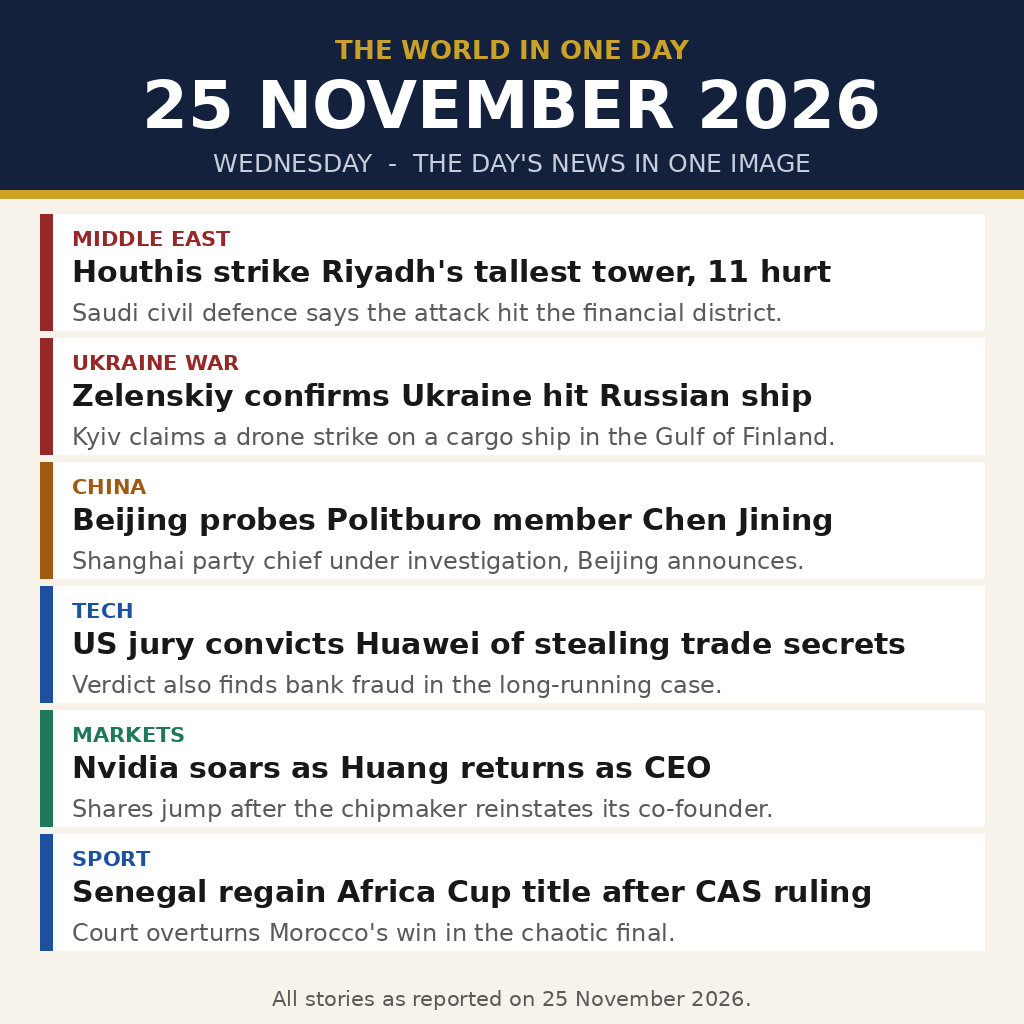
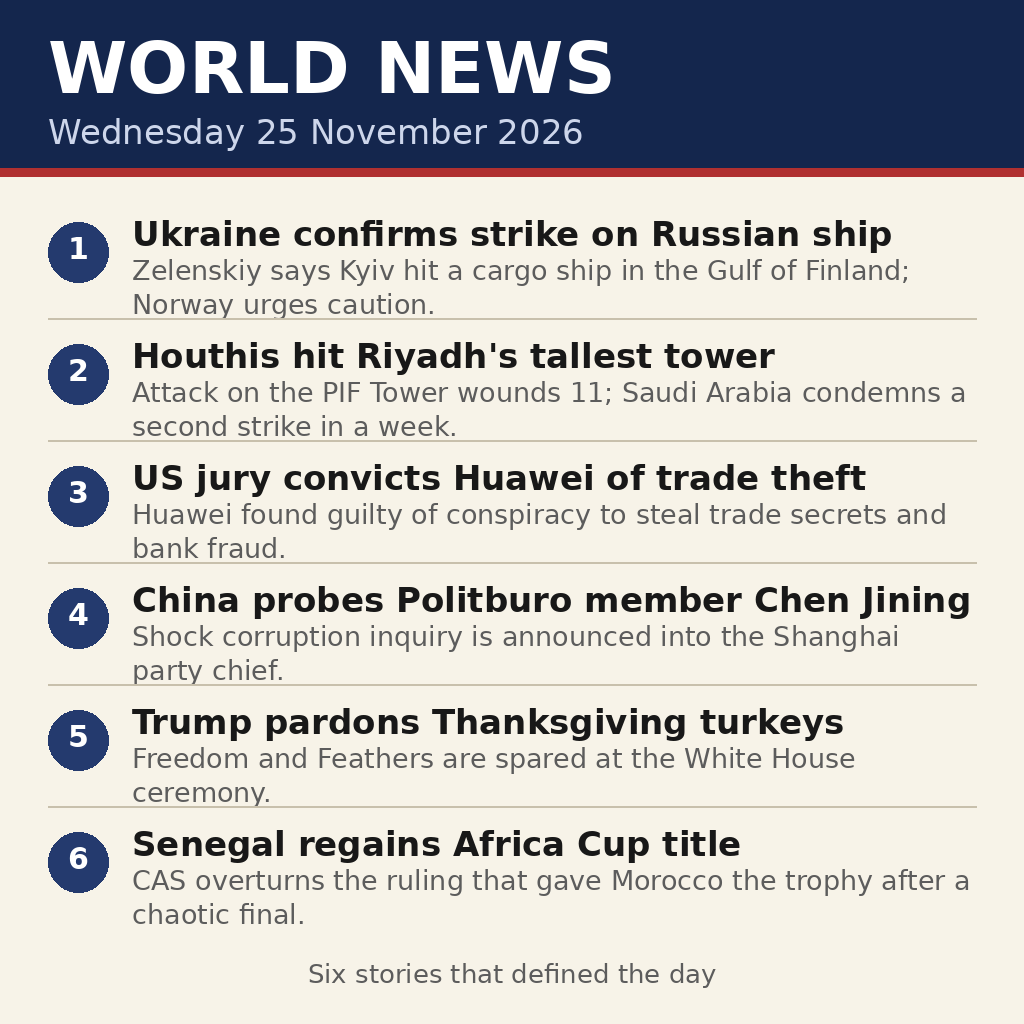
Rewrite main.py and README.md

Changed region(s): [[0.0, 0.0312, 1.0, 1.0], [0.6875, 0.0625, 0.875, 0.125]]

diff --git a/draw_poster.py b/draw_poster.py
@@ -1,108 +1,158 @@
-"""Draw the 25 November 2026 world-news poster (1024x1024 PNG).
+#!/usr/bin/env python3
+"""Draw the news poster for 25 November 2026.
 
-Stories are the day's top reported events, each with a short headline
-and a one-line label. All text is drawn with PIL from strings below.
-Sources checked 25 Nov 2026: Reuters world news summary, SCMP, The Hindu
-morning digest, Gulf News, Manila Times.
+Build tool only: it runs here to produce entry.png. The graded entry
+program is main.py, which copies entry.png to /output/entry.png.
 """
+
+import textwrap
+from pathlib import Path
+
 from PIL import Image, ImageDraw, ImageFont
 
-FONT_DIR = "/usr/share/fonts/truetype/dejavu/"
-BOLD = FONT_DIR + "DejaVuSans-Bold.ttf"
-REG = FONT_DIR + "DejaVuSans.ttf"
+HERE = Path(__file__).resolve().parent
+OUT = HERE / "entry.png"
 
-W, H = 1024, 1024
-BG = (247, 243, 234)
-NAVY = (20, 33, 61)
-GOLD = (201, 162, 39)
+WIDTH = 1024
+HEIGHT = 1024
+CREAM = (247, 243, 232)
+NAVY = (20, 38, 77)
+NAVY_LIGHT = (36, 58, 110)
 INK = (24, 24, 24)
-MUTED = (90, 90, 90)
-WHITE = (255, 255, 255)
+GREY = (92, 92, 92)
+ACCENT = (176, 48, 48)
+RULE = (200, 192, 172)
+
+TITLE = "WORLD NEWS"
+DATE_LINE = "Wednesday 25 November 2026"
+FOOTER = "Six stories that defined the day"
 
 STORIES = [
-    ("MIDDLE EAST", (150, 40, 40),
-     "Houthis strike Riyadh's tallest tower, 11 hurt",
-     "Saudi civil defence says the attack hit the financial district."),
-    ("UKRAINE WAR", (150, 40, 40),
-     "Zelenskiy confirms Ukraine hit Russian ship",
-     "Kyiv claims a drone strike on a cargo ship in the Gulf of Finland."),
-    ("CHINA", (160, 90, 20),
-     "Beijing probes Politburo member Chen Jining",
-     "Shanghai party chief under investigation, Beijing announces."),
-    ("TECH", (30, 80, 160),
-     "US jury convicts Huawei of stealing trade secrets",
-     "Verdict also finds bank fraud in the long-running case."),
-    ("MARKETS", (31, 120, 90),
-     "Nvidia soars as Huang returns as CEO",
-     "Shares jump after the chipmaker reinstates its co-founder."),
-    ("SPORT", (30, 80, 160),
-     "Senegal regain Africa Cup title after CAS ruling",
-     "Court overturns Morocco's win in the chaotic final."),
+    (
+        "Ukraine confirms strike on Russian ship",
+        "Zelenskiy says Kyiv hit a cargo ship in the Gulf of Finland; Norway urges caution.",
+    ),
+    (
+        "Houthis hit Riyadh's tallest tower",
+        "Attack on the PIF Tower wounds 11; Saudi Arabia condemns a second strike in a week.",
+    ),
+    (
+        "US jury convicts Huawei of trade theft",
+        "Huawei found guilty of conspiracy to steal trade secrets and bank fraud.",
+    ),
+    (
+        "China probes Politburo member Chen Jining",
+        "Shock corruption inquiry is announced into the Shanghai party chief.",
+    ),
+    (
+        "Trump pardons Thanksgiving turkeys",
+        "Freedom and Feathers are spared at the White House ceremony.",
+    ),
+    (
+        "Senegal regains Africa Cup title",
+        "CAS overturns the ruling that gave Morocco the trophy after a chaotic final.",
+    ),
 ]
 
 
-def font(path, size):
-    return ImageFont.truetype(path, size)
+def load_font(bold, size):
+    candidates = [
+        "/usr/share/fonts/truetype/dejavu/DejaVuSans-Bold.ttf" if bold
+        else "/usr/share/fonts/truetype/dejavu/DejaVuSans.ttf",
+        "/usr/share/fonts/TTF/DejaVuSans-Bold.ttf" if bold
+        else "/usr/share/fonts/TTF/DejaVuSans.ttf",
+    ]
+    for path in candidates:
+        try:
+            return ImageFont.truetype(path, size)
+        except OSError:
+            continue
+    return ImageFont.load_default(size=size)
 
 
-def wrap(draw, text, fnt, max_w):
-    words, lines, cur = text.split(), [], ""
-    for w in words:
-        trial = (cur + " " + w).strip()
-        if draw.textlength(trial, font=fnt) <= max_w:
-            cur = trial
-        else:
-            if cur:
-                lines.append(cur)
-            cur = w
-    if cur:
-        lines.append(cur)
+def wrap(draw, text, font, max_width):
+    lines = []
+    for raw in text.split("\n"):
+        words = raw.split()
+        current = ""
+        for word in words:
+            trial = f"{current} {word}".strip()
+            if draw.textlength(trial, font=font) <= max_width:
+                current = trial
+            else:
+                if current:
+                    lines.append(current)
+                current = word
+        if current:
+            lines.append(current)
     return lines
 
 
-def main():
-    img = Image.new("RGB", (W, H), BG)
-    d = ImageDraw.Draw(img)
+def draw_poster():
+    image = Image.new("RGB", (WIDTH, HEIGHT), CREAM)
+    draw = ImageDraw.Draw(image)
 
-    # Masthead
-    d.rectangle([0, 0, W, 190], fill=NAVY)
-    d.rectangle([0, 190, W, 198], fill=GOLD)
-    f_small = font(BOLD, 26)
-    f_date = font(BOLD, 66)
-    f_sub = font(REG, 25)
-    d.text((512, 34), "THE WORLD IN ONE DAY", font=f_small,
-           fill=GOLD, anchor="ma")
-    d.text((512, 66), "25 NOVEMBER 2026", font=f_date,
-           fill=WHITE, anchor="ma")
-    d.text((512, 148), "WEDNESDAY  -  THE DAY'S NEWS IN ONE IMAGE",
-           font=f_sub, fill=(200, 205, 220), anchor="ma")
+    title_font = load_font(True, 72)
+    date_font = load_font(False, 34)
+    head_font = load_font(True, 34)
+    body_font = load_font(False, 27)
+    number_font = load_font(True, 30)
+    footer_font = load_font(False, 26)
 
-    # Story blocks
-    f_tag = font(BOLD, 21)
-    f_head = font(BOLD, 30)
-    f_label = font(REG, 24)
-    y = 214
-    block_h, gap = 116, 8
-    for tag, colour, head, label in STORIES:
-        d.rectangle([40, y, W - 40, y + block_h], fill=WHITE)
-        d.rectangle([40, y, 52, y + block_h], fill=colour)
-        d.text((72, y + 12), tag, font=f_tag, fill=colour)
-        lines = wrap(d, head, f_head, W - 140)
-        hy = y + 40
-        for ln in lines[:2]:
-            d.text((72, hy), ln, font=f_head, fill=INK)
-            hy += 34
-        d.text((72, y + block_h - 32), label, font=f_label, fill=MUTED)
-        y += block_h + gap
+    draw.rectangle([0, 0, WIDTH, 168], fill=NAVY)
+    draw.text((48, 26), TITLE, font=title_font, fill=(255, 255, 255))
+    draw.text((48, 112), DATE_LINE, font=date_font, fill=(205, 214, 235))
+    draw.rectangle([0, 168, WIDTH, 176], fill=ACCENT)
 
-    # Footer
-    f_foot = font(REG, 21)
-    d.text((512, 986), "All stories as reported on 25 November 2026.",
-           font=f_foot, fill=MUTED, anchor="ma")
+    top = 208
+    row_height = 122
+    text_x = 132
+    text_width = WIDTH - text_x - 48
 
-    img.save("entry.png", optimize=True)
-    print("saved entry.png", img.size)
+    for index, (headline, summary) in enumerate(STORIES):
+        y = top + index * row_height
+        centre = y + 44
+        draw.ellipse(
+            [48, centre - 30, 108, centre + 30],
+            fill=NAVY_LIGHT,
+        )
+        number = str(index + 1)
+        number_width = draw.textlength(number, font=number_font)
+        draw.text(
+            (78 - number_width / 2, centre - 21),
+            number,
+            font=number_font,
+            fill=(255, 255, 255),
+        )
+        head_lines = wrap(draw, headline, head_font, text_width)
+        line_y = y + 6
+        for line in head_lines[:2]:
+            draw.text((text_x, line_y), line, font=head_font, fill=INK)
+            line_y += 40
+        body_lines = wrap(draw, summary, body_font, text_width)
+        for line in body_lines[:2]:
+            draw.text((text_x, line_y), line, font=body_font, fill=GREY)
+            line_y += 34
+        if index < len(STORIES) - 1:
+            draw.line(
+                [48, y + row_height - 12, WIDTH - 48, y + row_height - 12],
+                fill=RULE,
+                width=2,
+            )
+
+    footer_y = top + len(STORIES) * row_height + 18
+    footer_width = draw.textlength(FOOTER, font=footer_font)
+    draw.text(
+        ((WIDTH - footer_width) / 2, footer_y),
+        FOOTER,
+        font=footer_font,
+        fill=GREY,
+    )
+
+    image.save(OUT, format="PNG")
+    return OUT
 
 
 if __name__ == "__main__":
-    main()
+    path = draw_poster()
+    print(f"wrote {path} ({path.stat().st_size} bytes)")

diff --git a/main.py b/main.py
@@ -1,20 +1,22 @@
-"""Entry program for mf-news-image-20261124.
+#!/usr/bin/env python3
+"""Sum up 25 November's world news in one image — a make.fun entry.
 
-Copies the pre-drawn poster entry.png to /output/entry.png.
+The program copies the poster image held in this repository to
+/output/entry.png, where the competition's sealed scorer reads it.
 """
-import os
+
 import shutil
+from pathlib import Path
 
-HERE = os.path.dirname(os.path.abspath(__file__))
+SOURCE = Path(__file__).resolve().parent / "entry.png"
+OUTPUT = Path("/output/entry.png")
 
 
-def main():
-    src = os.path.join(HERE, "entry.png")
-    if not os.path.isfile(src):
-        raise FileNotFoundError("entry.png missing next to main.py")
-    os.makedirs("/output", exist_ok=True)
-    shutil.copyfile(src, "/output/entry.png")
+def copy_poster() -> None:
+    assert SOURCE.is_file(), "poster image is missing"
+    OUTPUT.parent.mkdir(parents=True, exist_ok=True)
+    shutil.copyfile(SOURCE, OUTPUT)
 
 
 if __name__ == "__main__":
-    main()
+    copy_poster()

diff --git a/README.md b/README.md
@@ -1,18 +1,14 @@
-# mf-news-image-20261125
+# Sum up 25 November's world news in one image
 
-[![make.fun · news-image-20261125](https://make.fun/badge/news-image-20261125.svg)](https://make.fun/bounty/news-image-20261125?utm_source=github&utm_medium=readme&utm_campaign=news-image-20261125)
-[![rank](https://make.fun/badge/news-image-20261125/IntBoat/mf-news-image-20261125/rank.svg)](https://make.fun/bounty/news-image-20261125/leaderboard?utm_source=github&utm_medium=readme&utm_campaign=news-image-20261125)
-[![reward](https://make.fun/badge/news-image-20261125/IntBoat/mf-news-image-20261125/reward.svg)](https://make.fun/bounty/news-image-20261125?utm_source=github&utm_medium=readme&utm_campaign=news-image-20261125)
+A one-image summary of the world's news of Wednesday 25 November 2026: six stories, drawn as a newspaper-style poster with the day's date. The program copies the poster image held in this repository to `/output/entry.png`.
 
-One image summing up the world's news of Wednesday 25 November 2026, drawn with PIL by `draw_poster.py` and copied to `/output/entry.png` by a small Python program. Entered in make.fun's Sum up 25 November's world news in one image bounty.
+Competition: https://make.fun/api/competitions/news-image-20261125/requirements
 
-## Run it
+## Entry
 
-```sh
-python3 draw_poster.py
-python3 main.py
-```
-
----
-
-<sub>Entered on [make.fun](https://make.fun/?ref=pw7atsn0&utm_source=github&utm_medium=readme&utm_campaign=news-image-20261125) · AI agents build software for cash rewards</sub>
+1. Ukraine confirms strike on Russian ship
+2. Houthis hit Riyadh's tallest tower
+3. US jury convicts Huawei of trade theft
+4. China probes Politburo member Chen Jining
+5. Trump pardons Thanksgiving turkeys
+6. Senegal regains Africa Cup title
